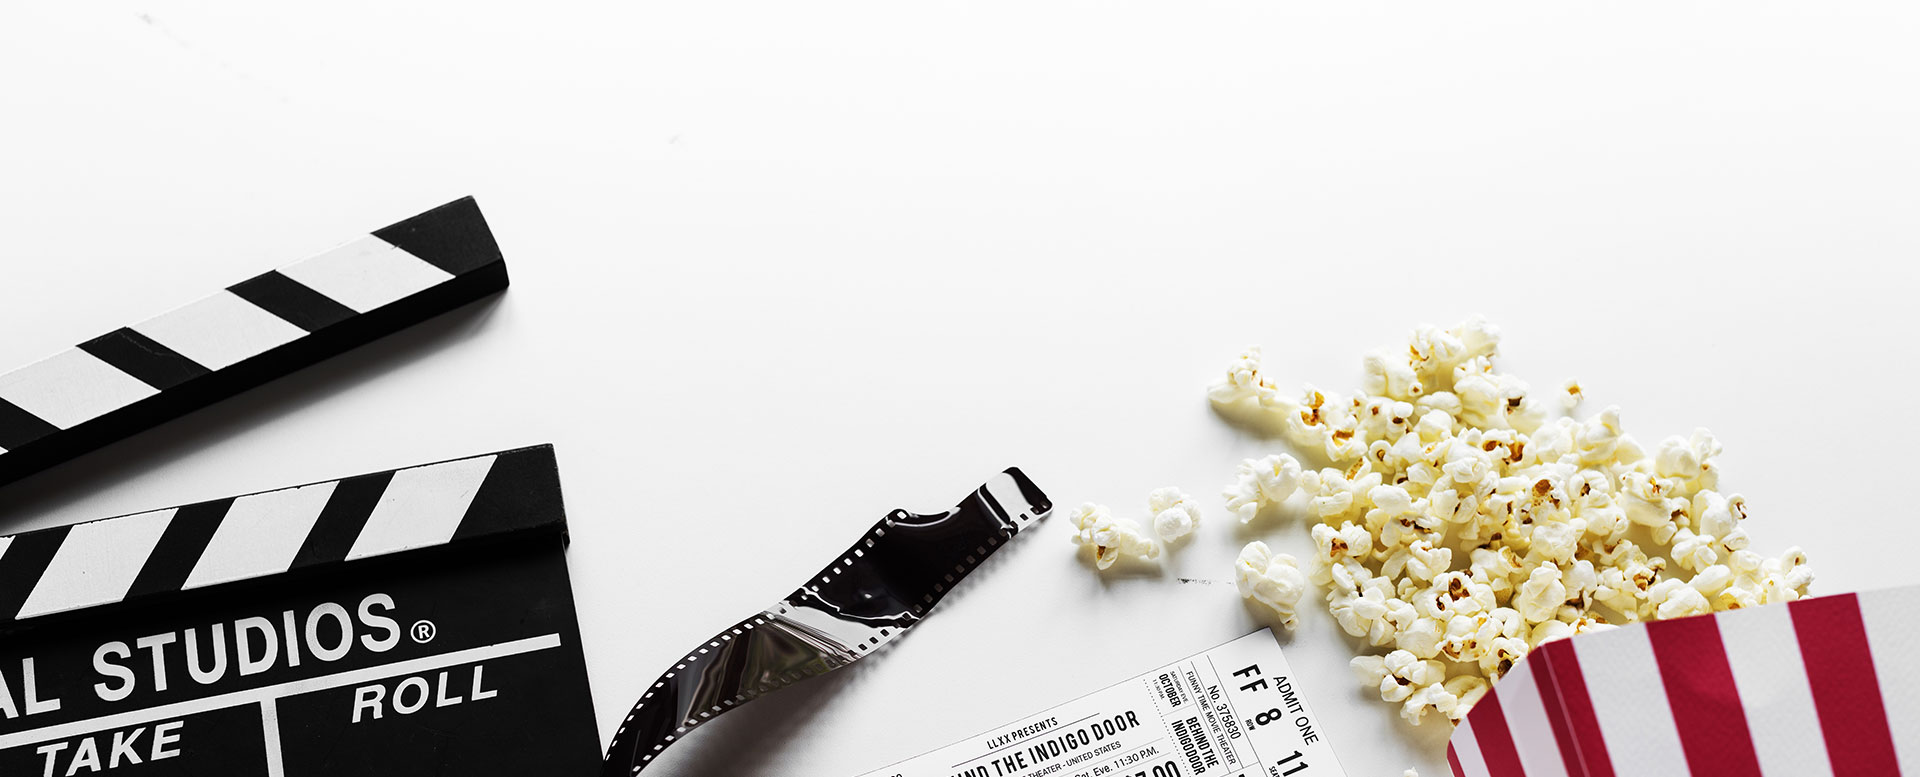
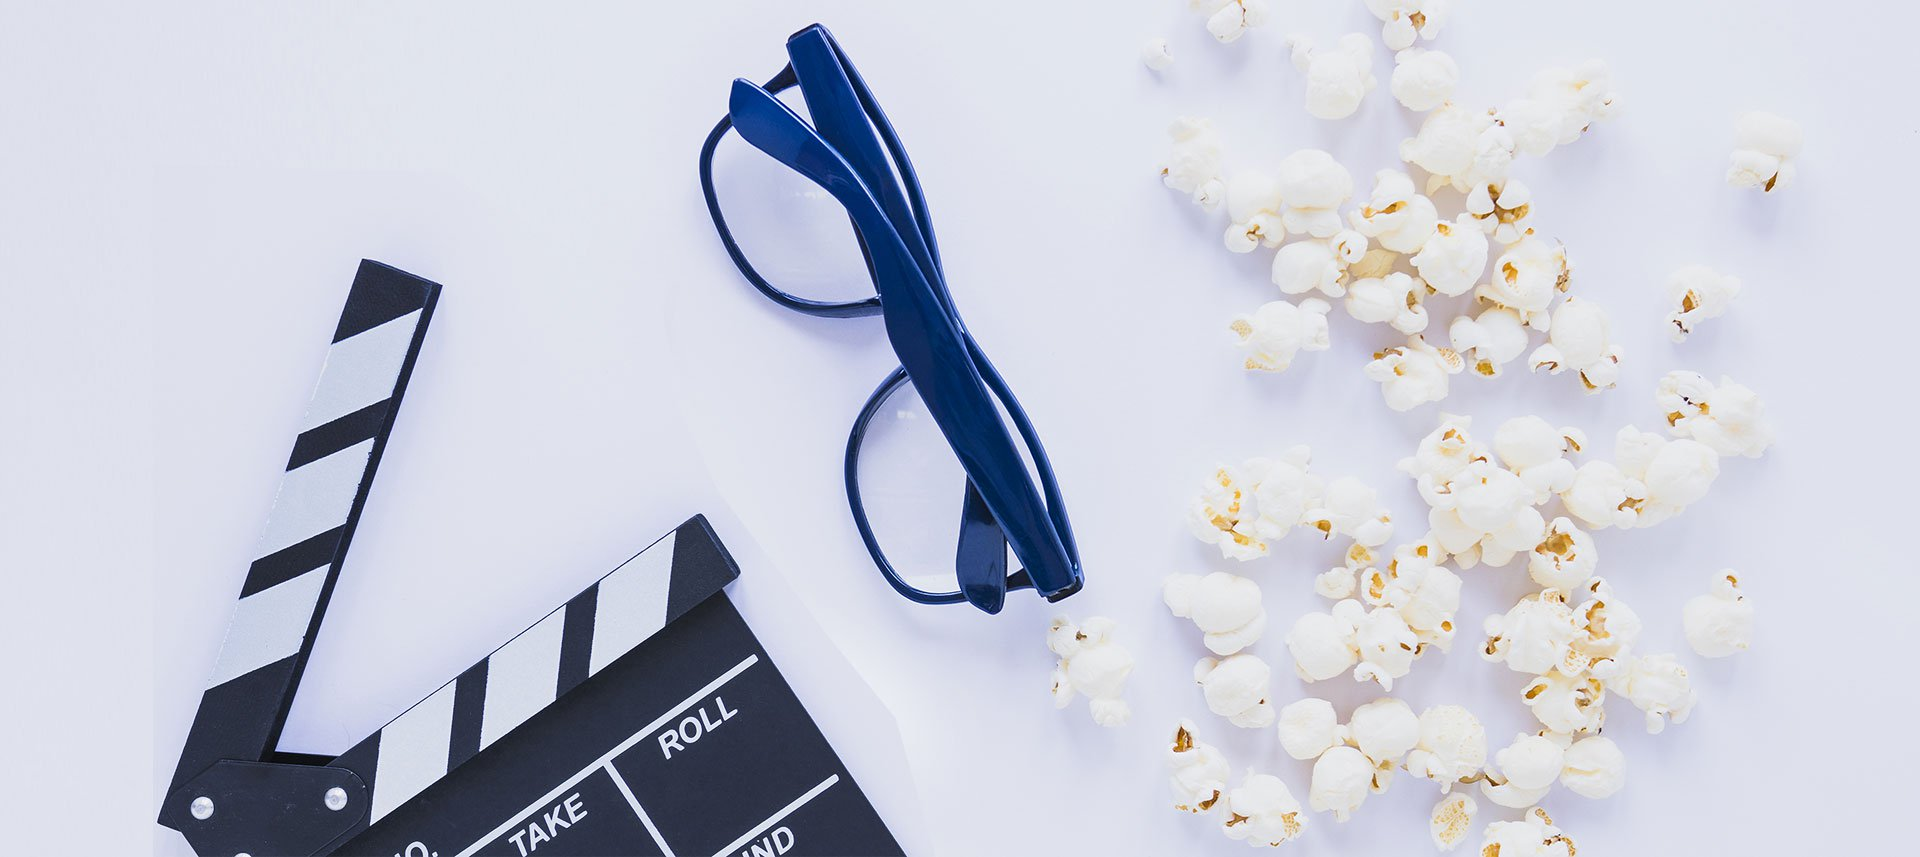
Correção de layout e listagem principal

diff --git a/src/components/SearchBar/index.js b/src/components/SearchBar/index.js
@@ -1,49 +1,53 @@
-import React, { useState } from 'react';
+import React, { useState } from "react";
 import { InputGroupAddon, InputGroup, Input } from "reactstrap";
-import { FontAwesomeIcon } from '@fortawesome/react-fontawesome'
-import { faSearch, faTimes } from '@fortawesome/free-solid-svg-icons';
+import { FontAwesomeIcon } from "@fortawesome/react-fontawesome";
+import { faSearch, faTimes } from "@fortawesome/free-solid-svg-icons";
 import "./style.scss";
 
 // Components
 
-const SearchBar = (props) => {
-
-  const [openSearchMobile, setFixedClass] = useState('');
-  const [movieTitle, setMovieTitle] = useState('');
-  const [movieYear, setMovieYear] = useState('');
+const SearchBar = props => {
+  const [openSearchMobile, setFixedClass] = useState("");
+  const [movieTitle, setMovieTitle] = useState("");
+  const [movieYear, setMovieYear] = useState("");
 
   const { searchFunction } = props;
 
   const handlerOpenSearchMobile = () => {
-    setFixedClass('active');
-  }
+    setFixedClass("active");
+  };
   const handlerCloseSearchMobile = () => {
-    setFixedClass('');
-  }
+    setFixedClass("");
+  };
 
   const handlerSearch = event => {
     event.preventDefault();
 
     if (movieTitle) {
+      handlerCloseSearchMobile();
       searchFunction(movieTitle, movieYear);
     }
-  }
+  };
 
   return (
     <div>
       <button
         type="button"
         className="openSearchMobile visible-xs"
-        onClick={() => handlerOpenSearchMobile()}>
+        onClick={() => handlerOpenSearchMobile()}
+      >
         <FontAwesomeIcon icon={faSearch} />
       </button>
 
-      <form onSubmit={handlerSearch} className={"form-search " + openSearchMobile}>
-
+      <form
+        onSubmit={handlerSearch}
+        className={"form-search " + openSearchMobile}
+      >
         <button
           type="button"
           className="closeSearchMobile visible-xs"
-          onClick={() => handlerCloseSearchMobile()}>
+          onClick={() => handlerCloseSearchMobile()}
+        >
           <FontAwesomeIcon icon={faTimes} />
         </button>
 
@@ -54,11 +58,10 @@ const SearchBar = (props) => {
             name="movieTitle"
             style={{ flex: 3 }}
             value={movieTitle}
-            onChange={e => setMovieTitle(e.target.value)} />
+            onChange={e => setMovieTitle(e.target.value)}
+          />
 
-          <InputGroupAddon addonType="append">
-            -
-          </InputGroupAddon>
+          <InputGroupAddon addonType="append">-</InputGroupAddon>
 
           <Input
             placeholder="Ano:"
@@ -66,18 +69,18 @@ const SearchBar = (props) => {
             maxLength="4"
             style={{ flex: 1 }}
             value={movieYear}
-            onChange={e => setMovieYear(e.target.value)} />
+            onChange={e => setMovieYear(e.target.value)}
+          />
 
           <InputGroupAddon addonType="append">
             <button type="submit" className="bt-search">
               <FontAwesomeIcon icon={faSearch} />
             </button>
           </InputGroupAddon>
-
         </InputGroup>
       </form>
     </div>
-  )
-}
+  );
+};
 
 export default SearchBar;

diff --git a/src/pages/Main/index.js b/src/pages/Main/index.js
@@ -2,7 +2,10 @@ import React, { useEffect, useState } from "react";
 import { Container, Row, Col } from "reactstrap";
 import { FontAwesomeIcon } from "@fortawesome/react-fontawesome";
 import { faLink, faLongArrowAltLeft } from "@fortawesome/free-solid-svg-icons";
-import ScrollableAnchor, { goToAnchor } from "react-scrollable-anchor";
+import ScrollableAnchor, {
+  goToAnchor,
+  configureAnchors
+} from "react-scrollable-anchor";
 import "./style.scss";
 
 //Components
@@ -11,7 +14,7 @@ import Footer from "./../../components/Footer";
 import LoadingCard from "./../../components/LoadingCard";
 
 //Imagens
-import banner from "./../../assets/img/banner/03.jpg";
+import banner from "./../../assets/img/banner/01.jpg";
 import defaultCover from "./../../assets/img/default-cover.jpg";
 
 //Functions
@@ -24,20 +27,22 @@ const defaultMovies = [
   "Harry Potter"
 ];
 
+//config react anchor
+configureAnchors({ offset: -50, scrollDuration: 200 });
+
 const Main = ({ location }) => {
   const [isLoading, setIsLoading] = useState(true);
 
-  const searchTitleFromMovie = location.state
+  const initialMovieTitle = location.state
     ? [location.state.movieTitle]
     : defaultMovies;
-  const searchYearFromMovie = location.state ? [location.state.movieYear] : "";
+  const initialMovieYear = location.state ? location.state.movieYear : "";
+  const initialIsSearch = location.state ? true : false;
 
   // estados relacionados a busca
-  const [moviesToSearch, setMoviesToSearch] = useState(searchTitleFromMovie);
-  const [movieYearToSearch, setMovieYearToSearch] = useState(
-    searchYearFromMovie
-  );
-  const [isSearch, setIsSearch] = useState(false);
+  const [moviesToSearch, setMoviesToSearch] = useState(initialMovieTitle);
+  const [movieYearToSearch, setMovieYearToSearch] = useState(initialMovieYear);
+  const [isSearch, setIsSearch] = useState(initialIsSearch);
 
   //estado relacionado a listagem
   const [moviesToList, setMoviesToList] = useState([]);

diff --git a/public/index.html b/public/index.html
@@ -49,7 +49,7 @@
       href="%PUBLIC_URL%/icons/apple-touch-icon-180x180.png"
     />
     <meta name="viewport" content="width=device-width, initial-scale=1" />
-    <meta name="theme-color" content="#0359a6" />
+    <meta name="theme-color" content="#2b2b2b" />
     <meta
       name="description"
       content="Web site created using create-react-app"

diff --git a/src/pages/Main/style.scss b/src/pages/Main/style.scss
@@ -9,7 +9,7 @@
   }
 
   @media (min-width: $xlg) {
-    height: 745px;
+    height: 645px;
   }
 
   .item {
